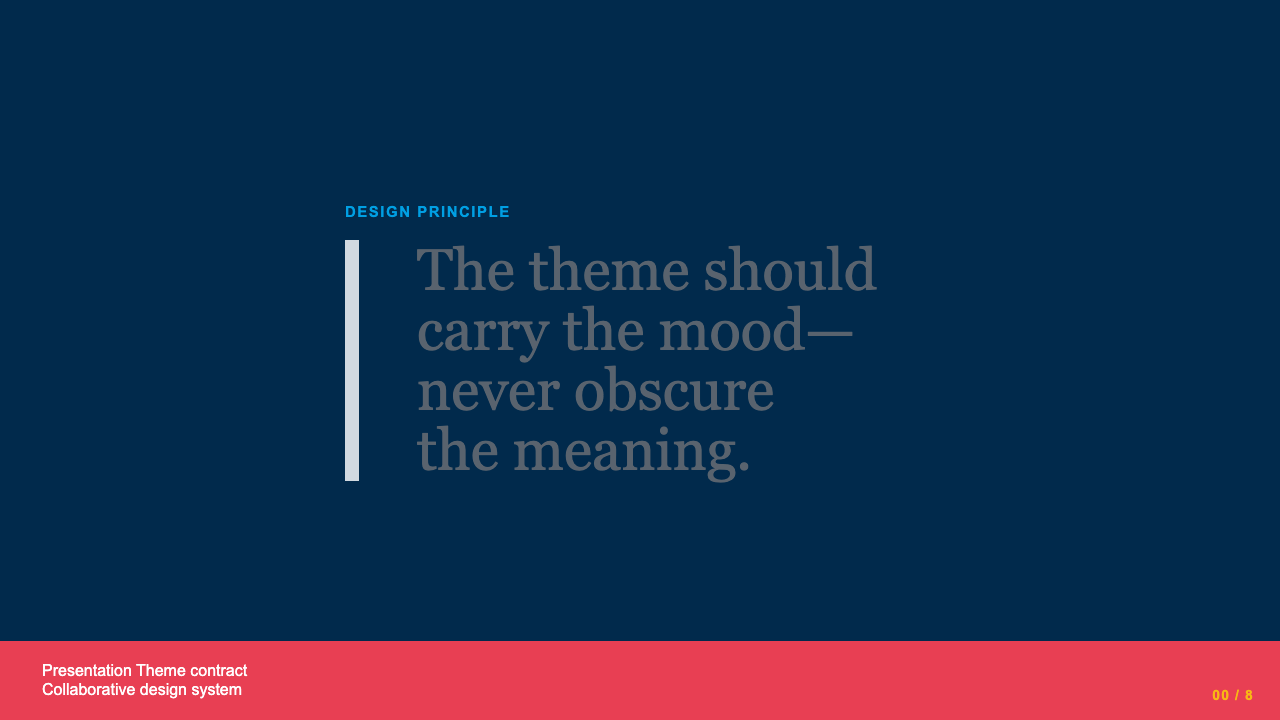
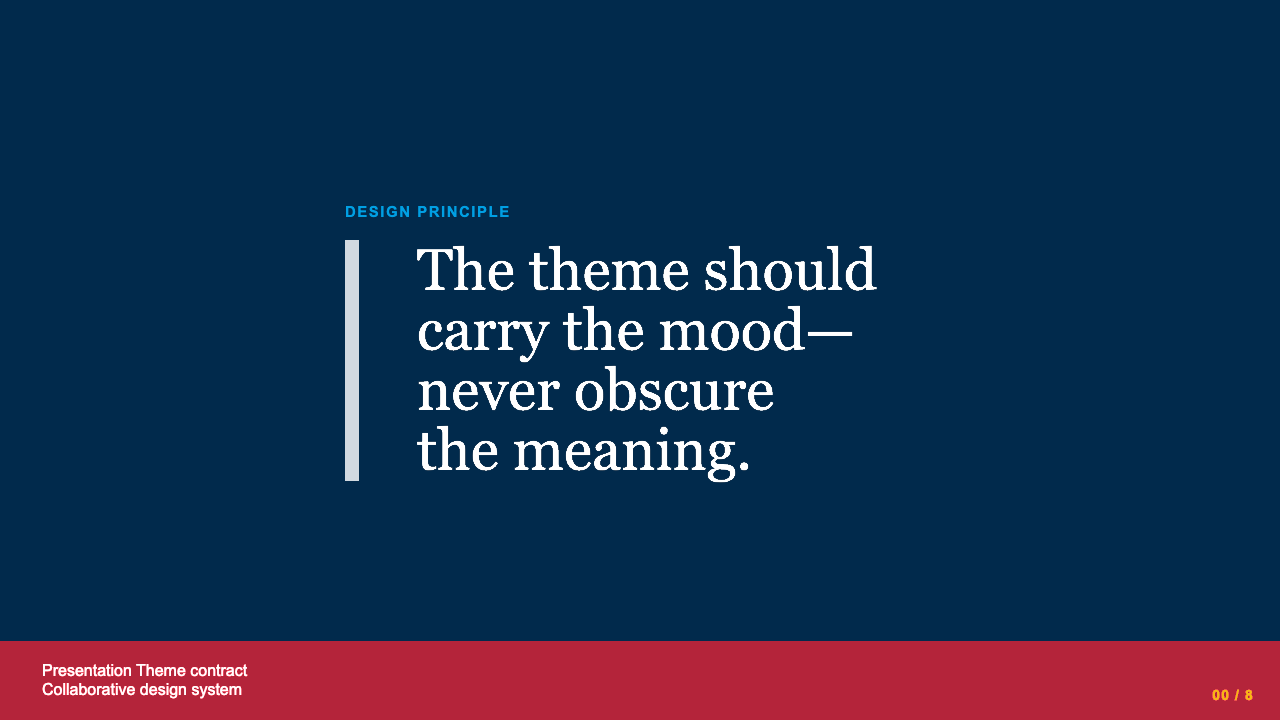
fix: restore Compact Signal quotation contrast

Changed region(s): [[0.0, 0.8861, 1.0, 1.0], [0.3125, 0.3361, 0.6875, 0.4889], [0.3125, 0.5194, 0.625, 0.6722]]

diff --git a/skills/presentation/generate-slides/themes/compact-signal/theme.css b/skills/presentation/generate-slides/themes/compact-signal/theme.css
@@ -7,6 +7,7 @@
   --compact-bright-blue: #009fe3;
   --compact-teal: #00ab84;
   --compact-red: #e83f53;
+  --compact-red-strong: #b4233a;
   --compact-yellow: #f7b715;
   --compact-paper: #f7f7f7;
   --compact-white: #ffffff;
@@ -82,7 +83,7 @@ section.archetype-text-only .slot-label { grid-column: 2; }
 section.archetype-text-only .slot-body { grid-column: 2; }
 section.archetype-text-only .slot-body ul, section.archetype-text-only .slot-body ol { padding: 0; list-style: none; counter-reset: compact-step; }
 section.archetype-text-only .slot-body li { display: grid; grid-template-columns: 36px 1fr; min-height: 48px; margin: 0; padding: 7px 0; border-bottom: 1px solid #c5d3dc; counter-increment: compact-step; }
-section.archetype-text-only .slot-body li::before { content: counter(compact-step, decimal-leading-zero); color: var(--compact-red); font-size: 14px; font-weight: 700; }
+section.archetype-text-only .slot-body li::before { content: counter(compact-step, decimal-leading-zero); color: var(--compact-red-strong); font-size: 14px; font-weight: 700; }
 
 section.archetype-text-plus-image { grid-template: auto 1fr auto / minmax(0, 56%) minmax(0, 44%); gap: 16px 26px; }
 section.archetype-text-plus-image .slot-heading { grid-column: 1; padding-bottom: 10px; border-bottom: 4px solid var(--compact-teal); }
@@ -119,6 +120,6 @@ section.archetype-diagram .slot-media img, section.archetype-diagram .slot-media
 section.archetype-quotation { place-content: center; padding: 58px 80px 94px; background: var(--compact-blue); color: var(--compact-white); }
 section.archetype-quotation::after { color: var(--compact-yellow); }
 section.archetype-quotation .slot-context { color: var(--compact-bright-blue); }
-section.archetype-quotation .slot-quote { max-width: 1030px; margin-top: 18px; font-size: 58px; line-height: 1.04; }
+section.archetype-quotation .slot-quote { max-width: 1030px; margin-top: 18px; color: var(--compact-white); font-size: 58px; line-height: 1.04; }
 section.archetype-quotation .slot-quote mark { padding: 0 7px; background: var(--compact-yellow); color: var(--compact-blue); }
-section.archetype-quotation .slot-attribution { position: absolute; right: 0; bottom: 0; left: 0; padding: 20px 42px; background: var(--compact-red); color: var(--compact-white); }
+section.archetype-quotation .slot-attribution { position: absolute; right: 0; bottom: 0; left: 0; padding: 20px 42px; background: var(--compact-red-strong); color: var(--compact-white); }
